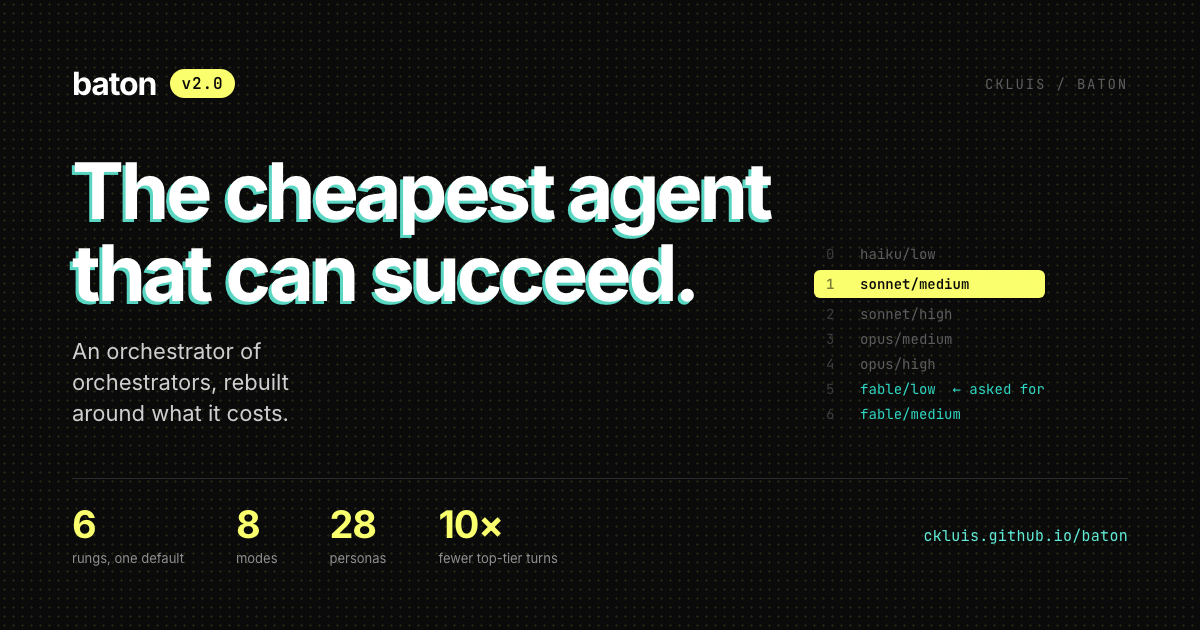
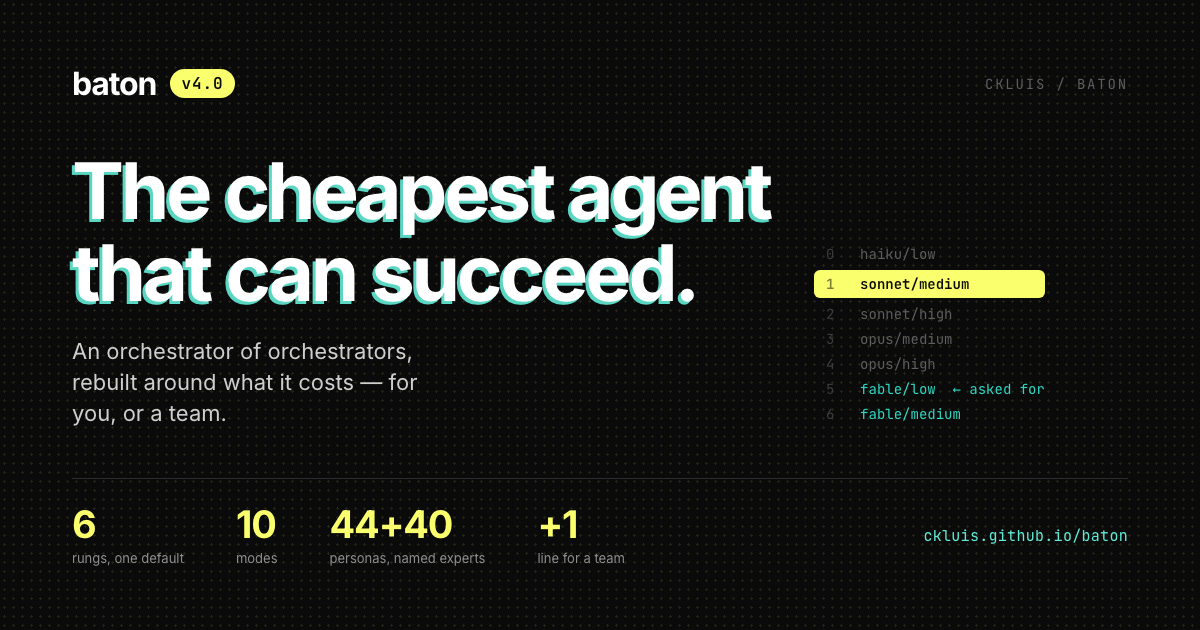
previews: the social card says v4.0 — it had said v2.0 since August
previews/_social-src.html still read v2.0 / 8 modes / 28 personas, and the
PNG the page's og:image points at was rendered from it on 2026-08-24; the v3
page shipped with a v2 card. Source updated (v4.0, "for you, or a team",
6 / 10 / 44+40 / +1) and re-rendered at 1200x630 with the gstack browse
daemon; dimensions verified.

diff --git a/previews/_social-src.html b/previews/_social-src.html
@@ -32,12 +32,12 @@ h1::before{content:attr(data-reg);position:absolute;left:-3px;top:3px;z-index:-1
 </style></head><body>
 <div class="halftone"></div><div class="grain"></div>
 <div class="pad">
-  <div class="top"><span class="wm">baton</span><span class="v2">v2.0</span><span class="src">ckluis / baton</span></div>
+  <div class="top"><span class="wm">baton</span><span class="v2">v4.0</span><span class="src">ckluis / baton</span></div>
   <div class="mid">
     <div>
       <h1 data-reg="The cheapest agent">The cheapest agent</h1><br>
       <h1 data-reg="that can succeed." style="margin-top:4px">that can succeed.</h1>
-      <div class="sub">An orchestrator of orchestrators, rebuilt around what it costs.</div>
+      <div class="sub" style="max-width:26ch">An orchestrator of orchestrators, rebuilt around what it costs &mdash; for you, or a team.</div>
     </div>
     <div class="rungs">
       <div class="r"><i>0</i>haiku/low</div>
@@ -52,9 +52,9 @@ h1::before{content:attr(data-reg);position:absolute;left:-3px;top:3px;z-index:-1
   <div class="bot">
     <div class="stats">
       <div class="s"><b>6</b><span>rungs, one default</span></div>
-      <div class="s"><b>8</b><span>modes</span></div>
-      <div class="s"><b>28</b><span>personas</span></div>
-      <div class="s"><b>10&times;</b><span>fewer top-tier turns</span></div>
+      <div class="s"><b>10</b><span>modes</span></div>
+      <div class="s"><b>44+40</b><span>personas, named experts</span></div>
+      <div class="s"><b>+1</b><span>line for a team</span></div>
     </div>
     <span class="url">ckluis.github.io/baton</span>
   </div>
